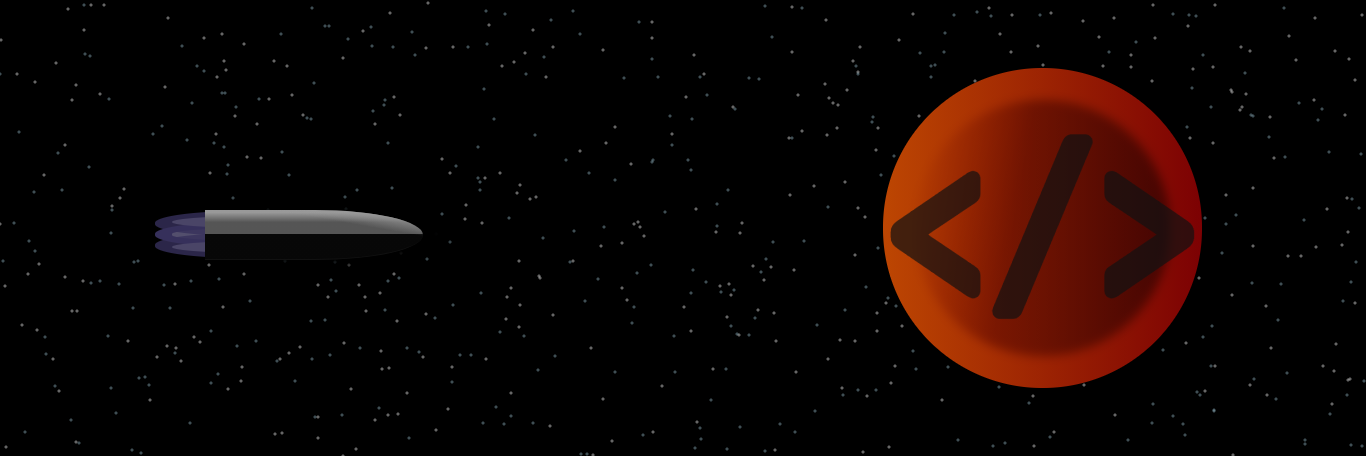
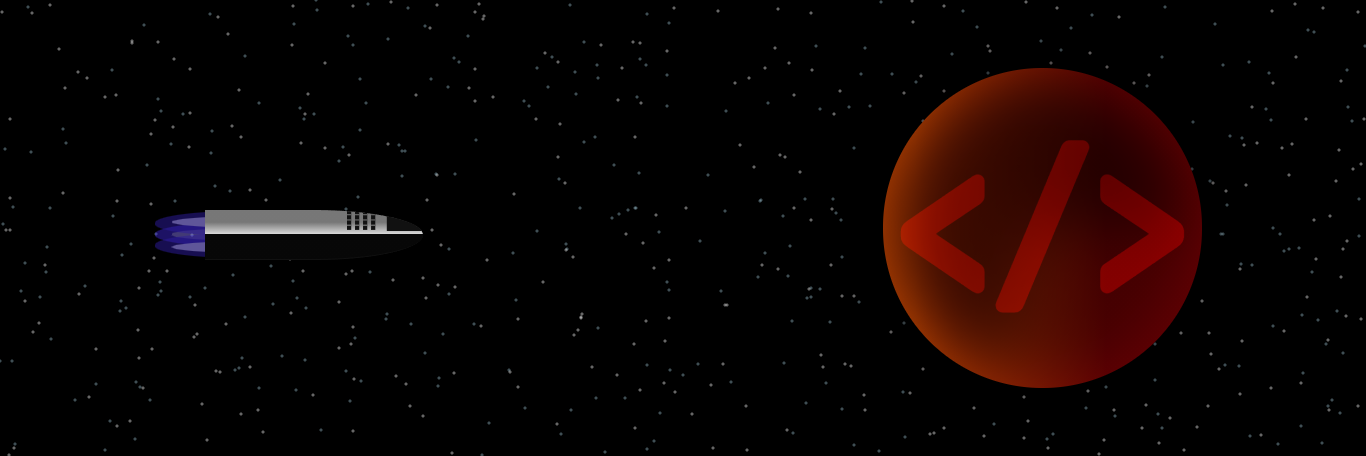
Fixed mars details and code symbol

diff --git a/style.css b/style.css
@@ -8,6 +8,7 @@
     padding: 0;
     box-sizing: border-box;
     font-family: 'Rubik', sans-serif;
+    user-select: none;
 }
 
 body
@@ -37,16 +38,16 @@ body
 
 .mars .details
 {
-    width: 90%;
-    height: 85%;
-    background: conic-gradient(from 90deg, #666 10% 30%, #000 30% 10%);
-    mix-blend-mode: overlay;
-    opacity: 0.6;
-    filter: blur(5px);
+    width: 95%;
+    height: 95%;
+    background: conic-gradient(from 90deg, #979797 10% 30%, #300000 30% 10%);
+    mix-blend-mode: multiply;
+    opacity: 0.8;
+    filter: blur(30px);
     border-radius: 50%;
     position: absolute;
-    top: 8%;
-    left: 5%;
+    top: 2%;
+    left: 2%;
 }
 
 .mars .code-symbol
@@ -56,10 +57,10 @@ body
     left: 50%;
     position: absolute;
     text-align: center;
-    font-size: 15vw;
+    font-size: 14vw;
     width: max-content;
-    color: #111111b4;
-    user-select: none;
+    color: rgb(255, 114, 49);
+    mix-blend-mode: soft-light;
 }
 
 .starship
@@ -70,11 +71,31 @@ body
         /* linear-gradient(-170deg, #999 10%,  transparent 30%), */
         linear-gradient(180deg, #777 25% 10%, #ddd 50%, #070707 50%);
     border-bottom: 1px solid #111;
-    box-shadow: 20px 0 10px 5px #000;
     border-radius: 0 50% 50% 0;
     position: absolute;
     top: 46%;
     left: 15%;
+}
+
+.starship .nose-cone
+{
+    position: absolute;
+    right: 0;
+    top: 0;
+    width: 100%;
+    height: 100%;
+    border-radius: inherit;
+    overflow: hidden;
+}
+
+.starship .windows
+{
+    position: absolute;
+    right: 0;
+    top: 0;
+    height: 42%;
+    width: 35%;
+    background: paint(starshipWindows);
 }
 
 .starship .rocket-exhaust
@@ -86,7 +107,7 @@ body
     opacity: 0.6;
     border-radius: 100%;
     position: absolute;
-    left: -50px;
+    left: -23%;
     top: 25%;
     z-index: -1;
 }
@@ -141,23 +162,4 @@ body
     bottom: -25%;
 }
 
-.starship .nose-cone
-{
-    position: absolute;
-    right: 0;
-    top: 0;
-    width: 100%;
-    height: 100%;
-    border-radius: inherit;
-    overflow: hidden;
-}
 
-.starship .windows
-{
-    position: absolute;
-    right: 0;
-    top: 0;
-    height: 42%;
-    width: 35%;
-    background: paint(starshipWindows);
-}

diff --git a/index.html b/index.html
@@ -8,6 +8,12 @@
 
         <link rel="stylesheet" href="style.css">
 
+        <script>
+            CSS.paintWorklet.addModule('https://cdnjs.cloudflare.com/ajax/libs/seedrandom/3.0.5/seedrandom.min.js');
+            CSS.paintWorklet.addModule('/js/stars.js');
+            CSS.paintWorklet.addModule('/js/starship-windows.js');
+        </script>
+
         <script src="app.js" defer></script>
     </head>
     <body>
@@ -17,15 +23,19 @@
                 <h1 class="code-symbol">&lt;/&gt;</h1>
             </div>
             <div class="starship">
+                <div class="nose-cone">
+                    <div class="windows"></div>
+                </div>
+                <div class="bottom">
+
+                </div>
                 <div class="rocket-exhaust">
                     <div class="plume plume-1"></div>
                     <div class="plume plume-2"></div>
                     <div class="plume plume-3"></div>
                 </div>
-                <div class="nose-cone">
-                    <div class="windows"></div>
-                </div>
             </div>
         </div>
+        <button id="btnSaveImg">Save as Image</button>
     </body>
 </html>
